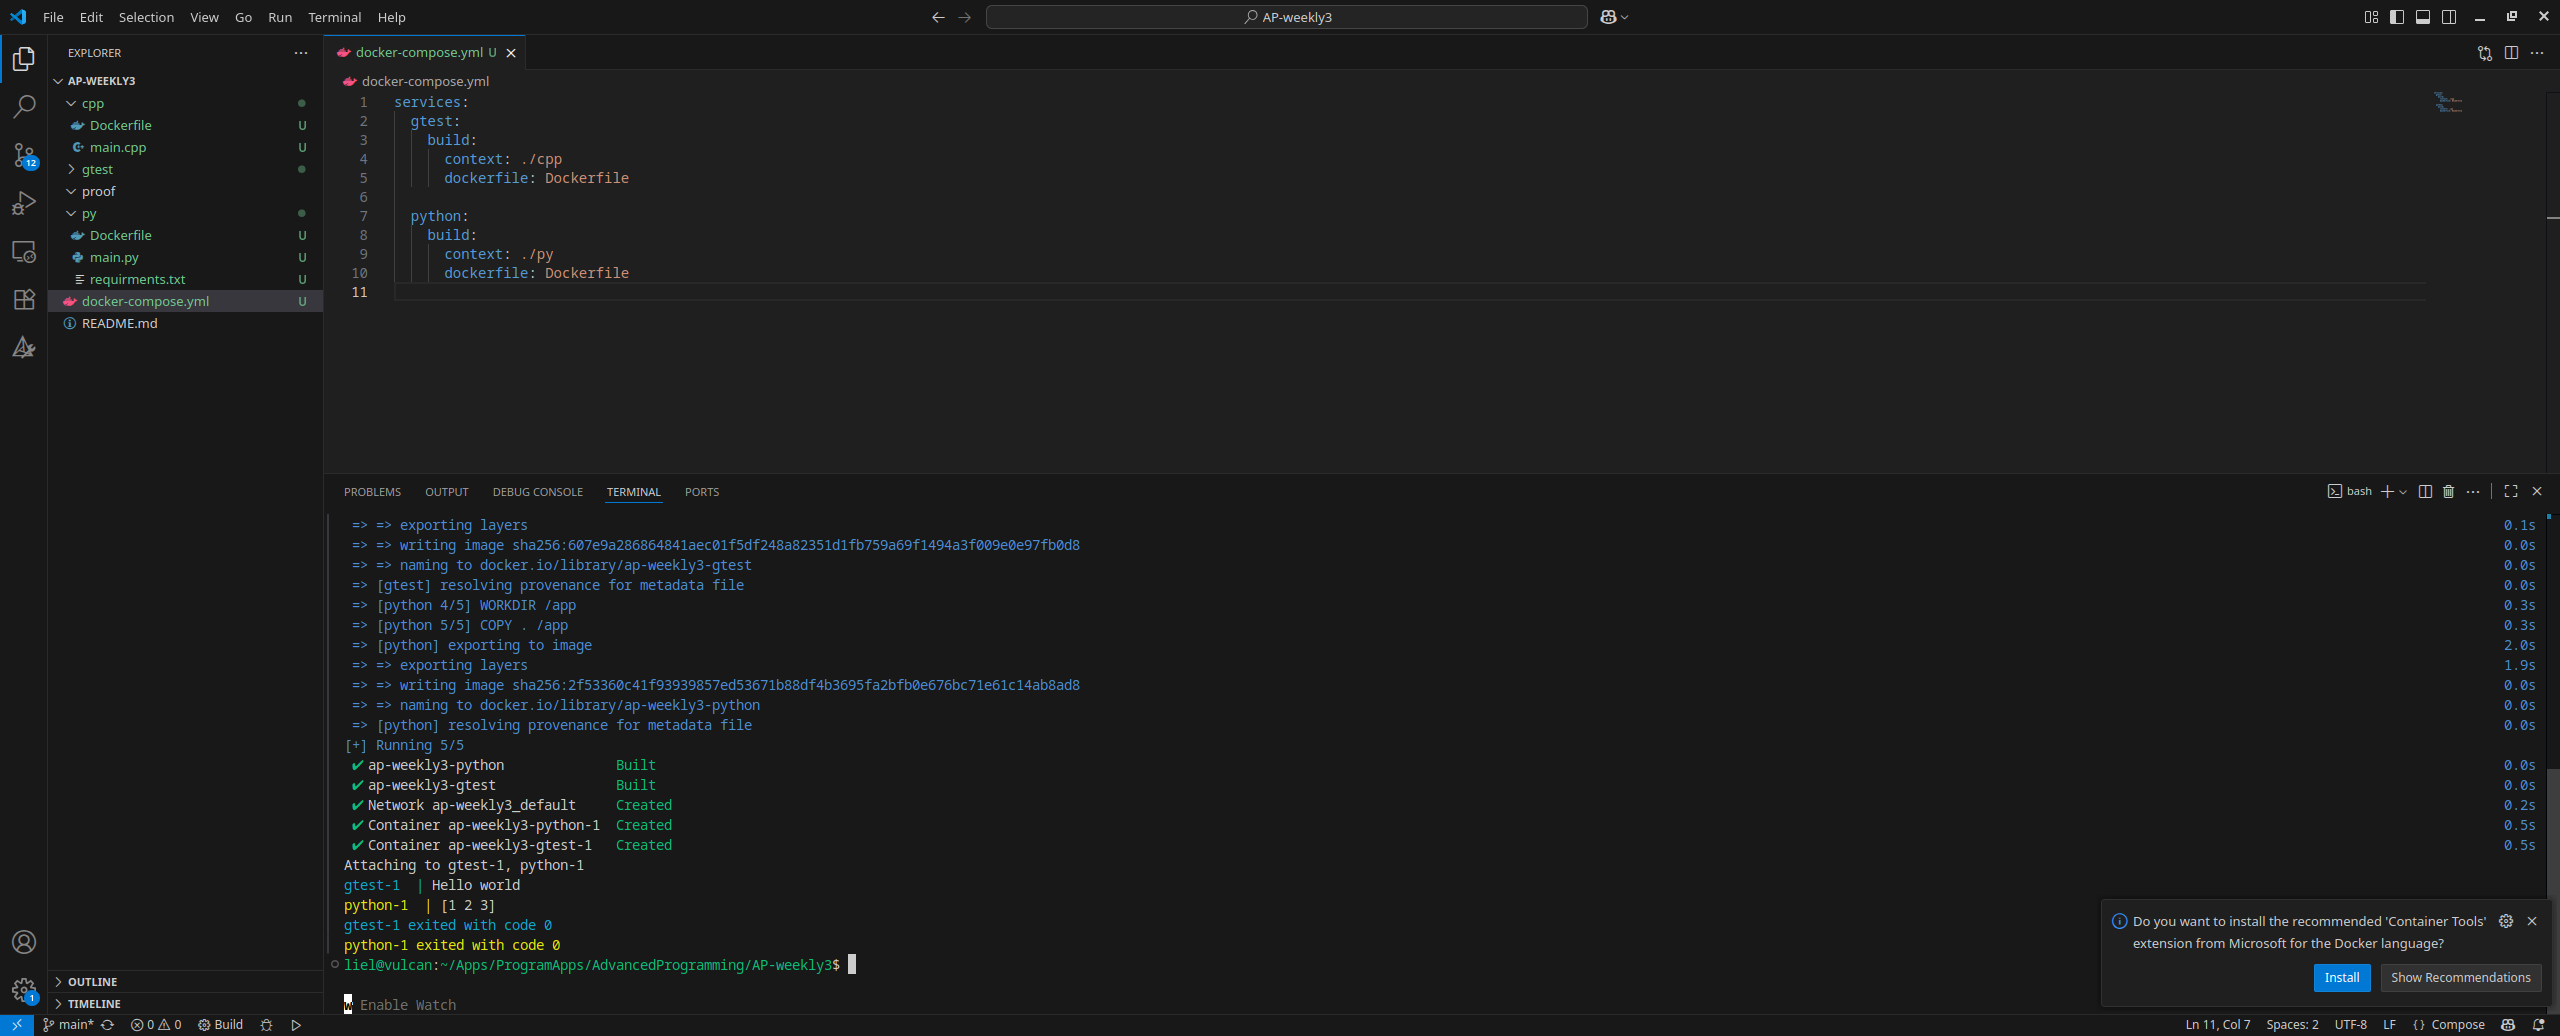
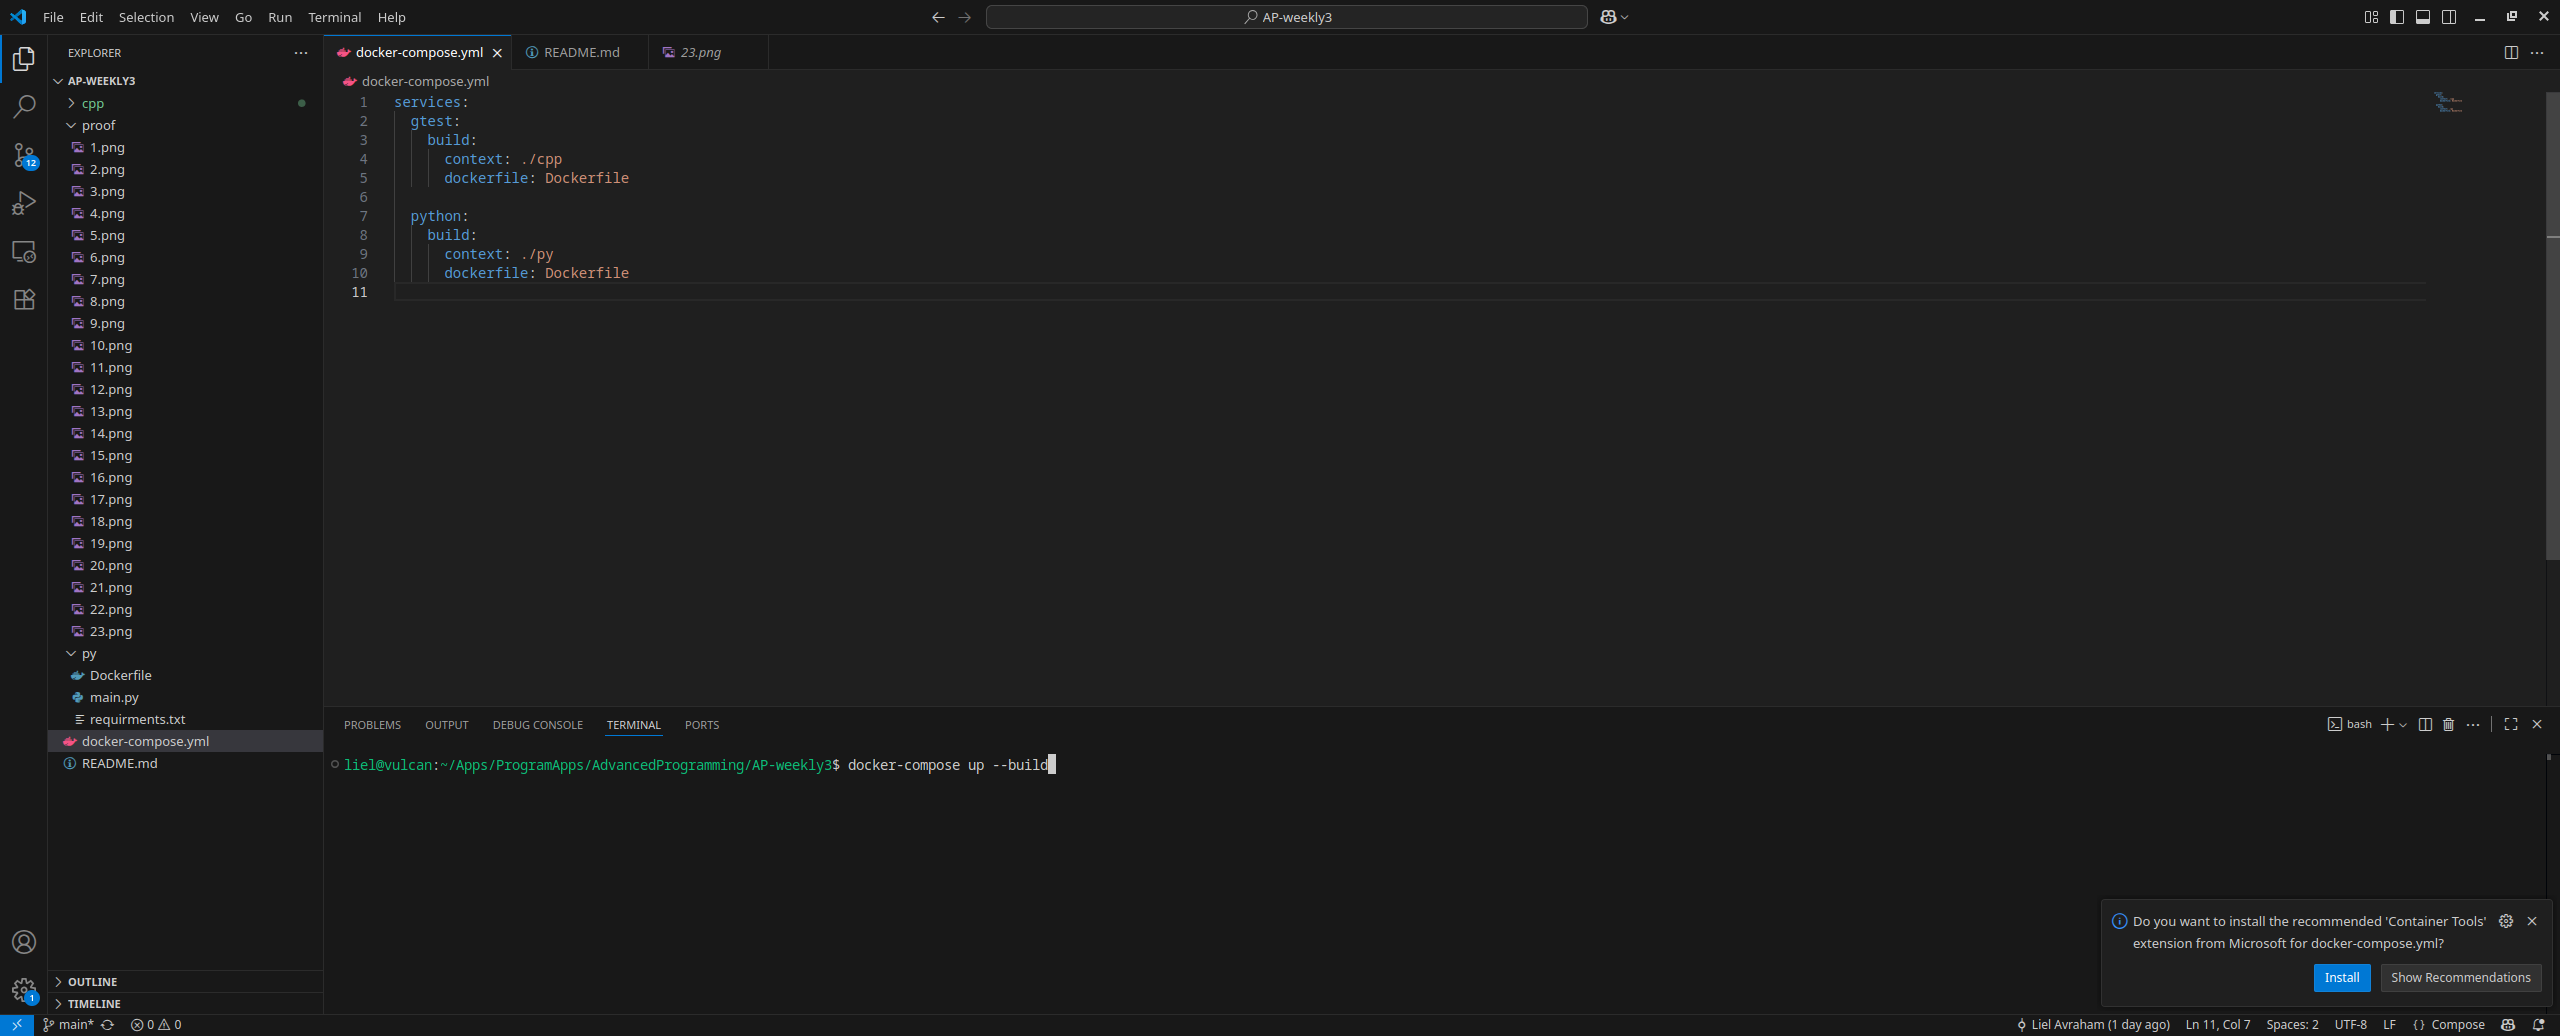
fixing last screenshot

diff --git a/cpp/main.cpp b/cpp/main.cpp
@@ -1,5 +1,5 @@
 #include <iostream>
 
 int main(){
-    std::cout << "Hello world\n";
+    return 0;
 }
